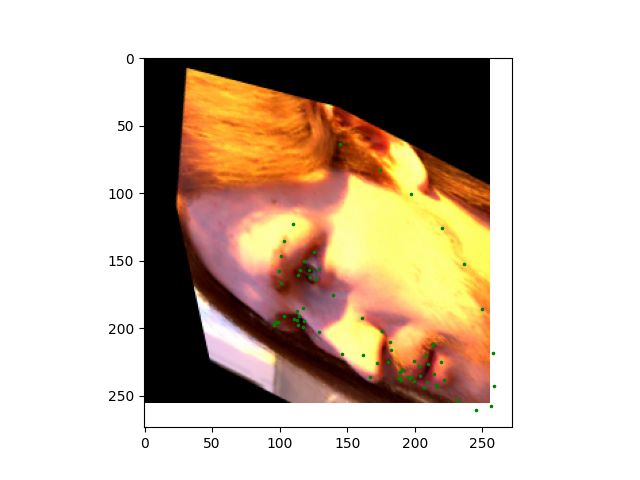
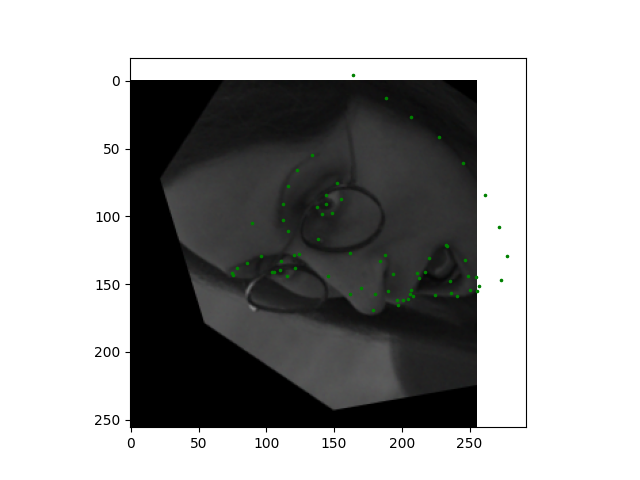
data loader!

diff --git a/data_load.py b/data_load.py
@@ -73,8 +73,8 @@ class FaceLandMark_Loader(Dataset):
         
         #crop_img = F.rgb_to_grayscale(crop_img, num_output_channels =3)
         is_gray = random.randint(0,1)
-        if is_gray == True:
-            self._gray_scaling(crop_img)
+        if is_gray == 1:
+            crop_img = self._gray_scaling(crop_img)
         else:
             crop_img = np.array(crop_img)
 
@@ -186,6 +186,7 @@ if __name__ == '__main__':
         plt.savefig('data_load_sample.png')  
 
         break
+
     print("############ Done ############")
 
 
